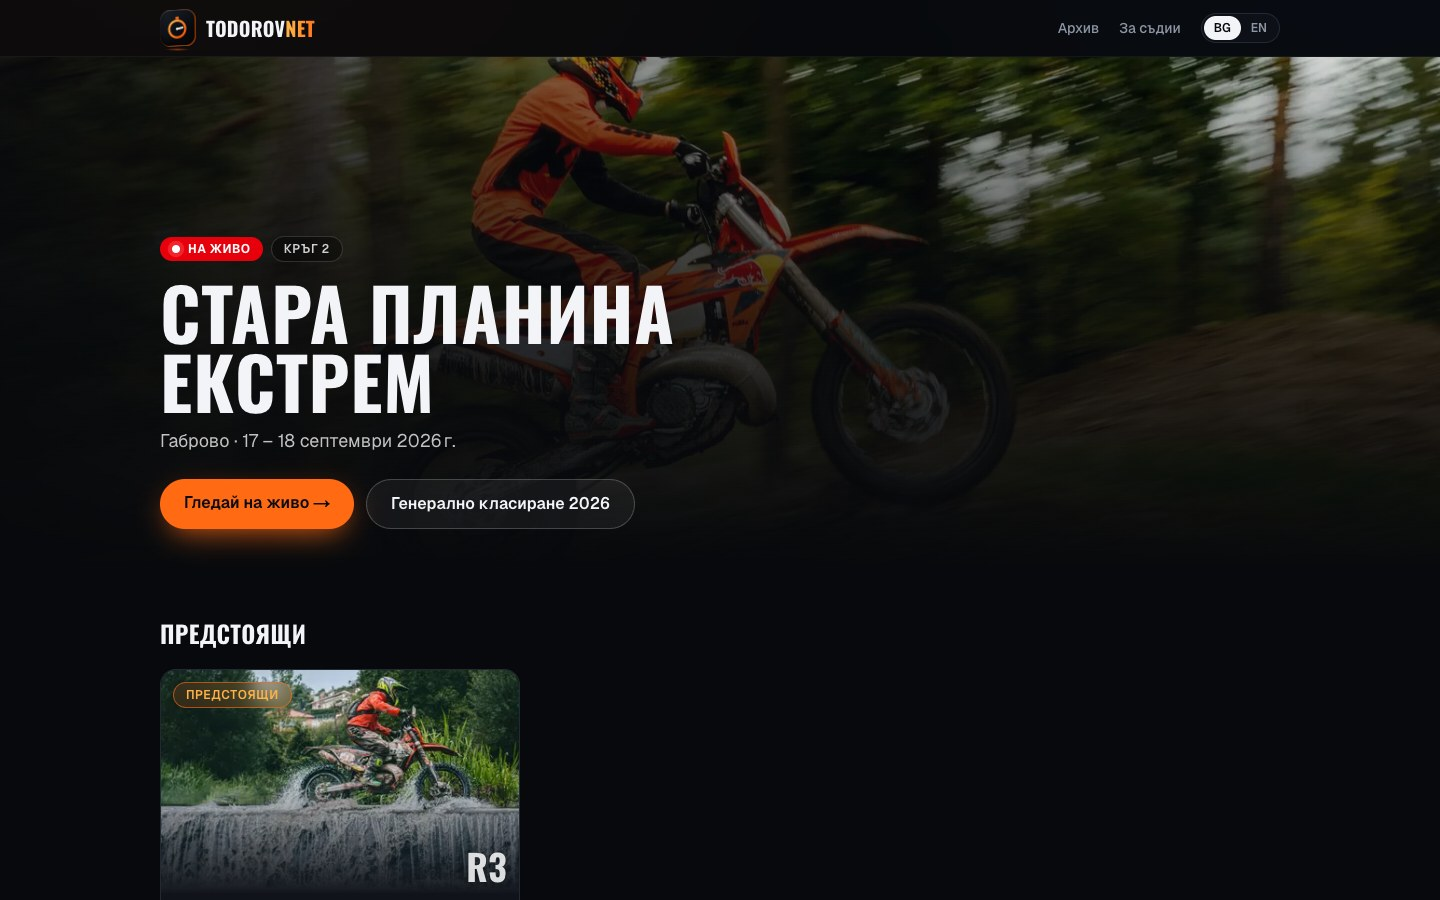
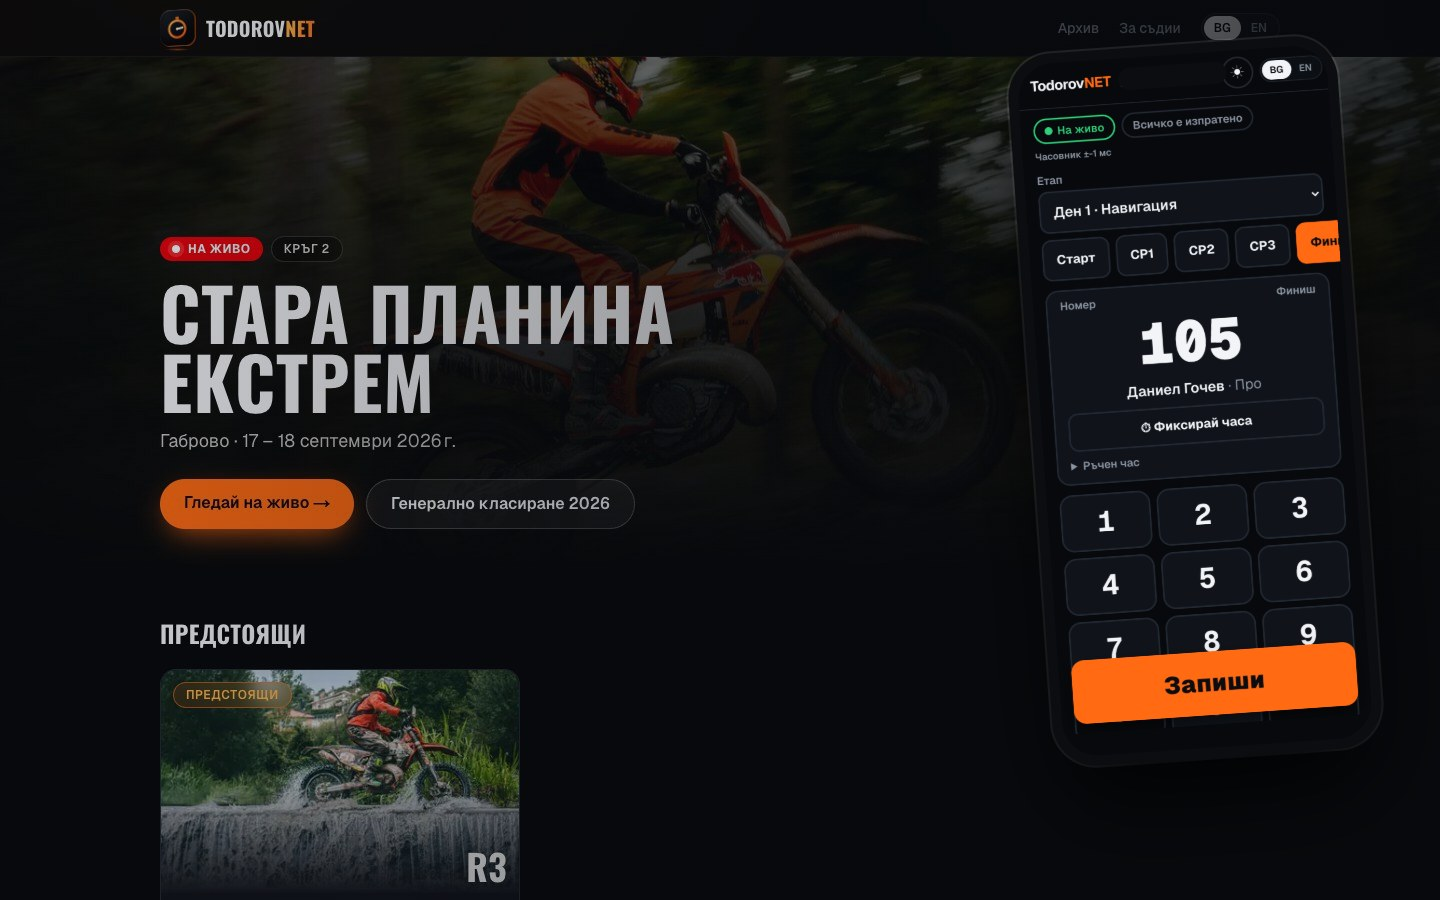
Portfolio: thumbnail shows the site with the officials' app on a phone
Label becomes „Наш продукт · сайт и приложение“ in all three languages, so the card says
at a glance that the project is a site plus a phone app.

Claude-Session: https://claude.ai/code/session_01LidBZevvnER7PdpbpjiWcb

diff --git a/DECISIONS.md b/DECISIONS.md
@@ -22,7 +22,7 @@ Items in brackets stay out of the public site until confirmed.
 - Founders: Dimitar and Nikolay, first names only. Cards show short title lines plus a LinkedIn link. Photos are the portraits supplied for v0.3.
 - Prices stay off marketing pages. Exact price is agreed in conversation.
 - Two engagement models on services: handoff vs maintain (maintain marked recommended).
-- Portfolio shows five client sites, in this order: Автомивка СТОРМ (KAN-38), Glenz Reinigung, Manufacturas Quezher, КИБО - 2 (the client agreed to be shown, 2026-09-14) and Dimitar’s personal site. Then Cacao Cartel as the sixth card (KAN-43), labelled „Концептуален проект“ / „Concept project“ / „Konzeptprojekt“, because it is a concept piece and not a client. Concept work always carries that label and comes after the clients. TodorovNET sits between the clients and Cacao Cartel, labelled „Наш продукт“ / „Our own product“ / „Eigenes Produkt“: it is a live system we built and run ourselves, not client work. Cards show a landing-page thumbnail and link out.
+- Portfolio shows five client sites, in this order: Автомивка СТОРМ (KAN-38), Glenz Reinigung, Manufacturas Quezher, КИБО - 2 (the client agreed to be shown, 2026-09-14) and Dimitar’s personal site. Then Cacao Cartel as the sixth card (KAN-43), labelled „Концептуален проект“ / „Concept project“ / „Konzeptprojekt“, because it is a concept piece and not a client. Concept work always carries that label and comes after the clients. TodorovNET sits between the clients and Cacao Cartel, labelled „Наш продукт · сайт и приложение“ / „Our own product · site and app“ / „Eigenes Produkt · Website und App“, with a thumbnail that shows the public site and the officials' phone app together: it is a live system we built and run ourselves, not client work. Cards show a landing-page thumbnail and link out.
 - Social links: LinkedIn on founder cards, plus the company Facebook and LinkedIn pages as icons in the footer (KAN-30). No other socials.
 - Structured data (KAN-30): a `ProfessionalService` JSON-LD block on the home pages. The founders appear there by full name with their LinkedIn profiles, so search engines can tell Wavsy the studio from the song of the same name. The visible site keeps first names only. No telephone, since the phone is not published.
 - Blog omitted from this version
